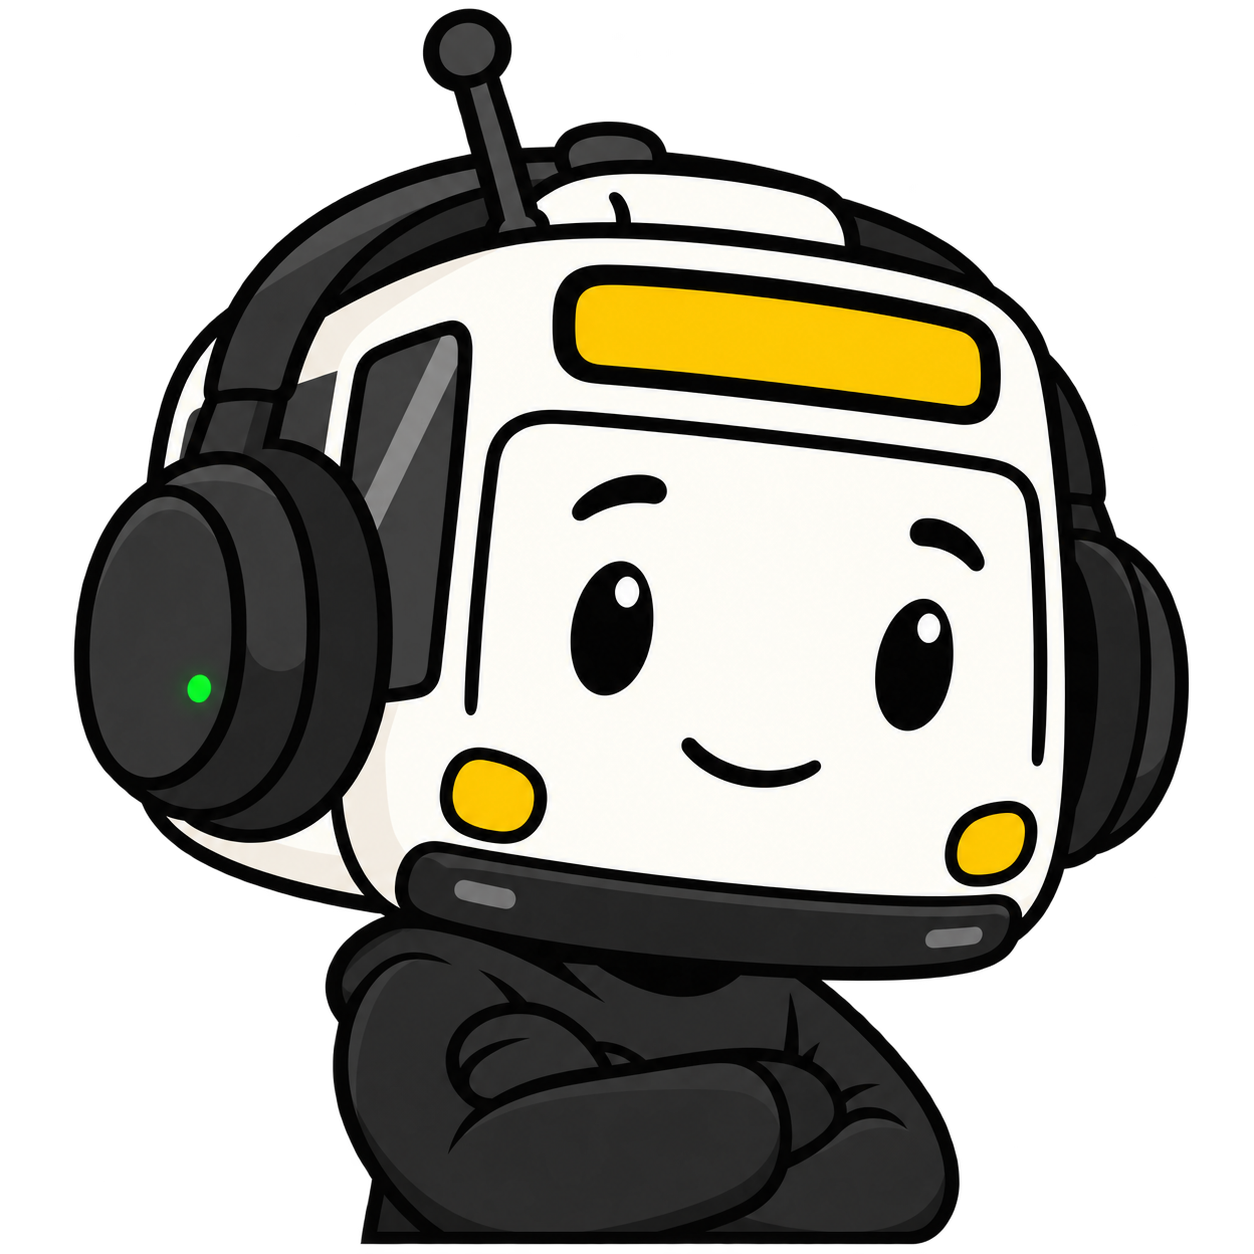
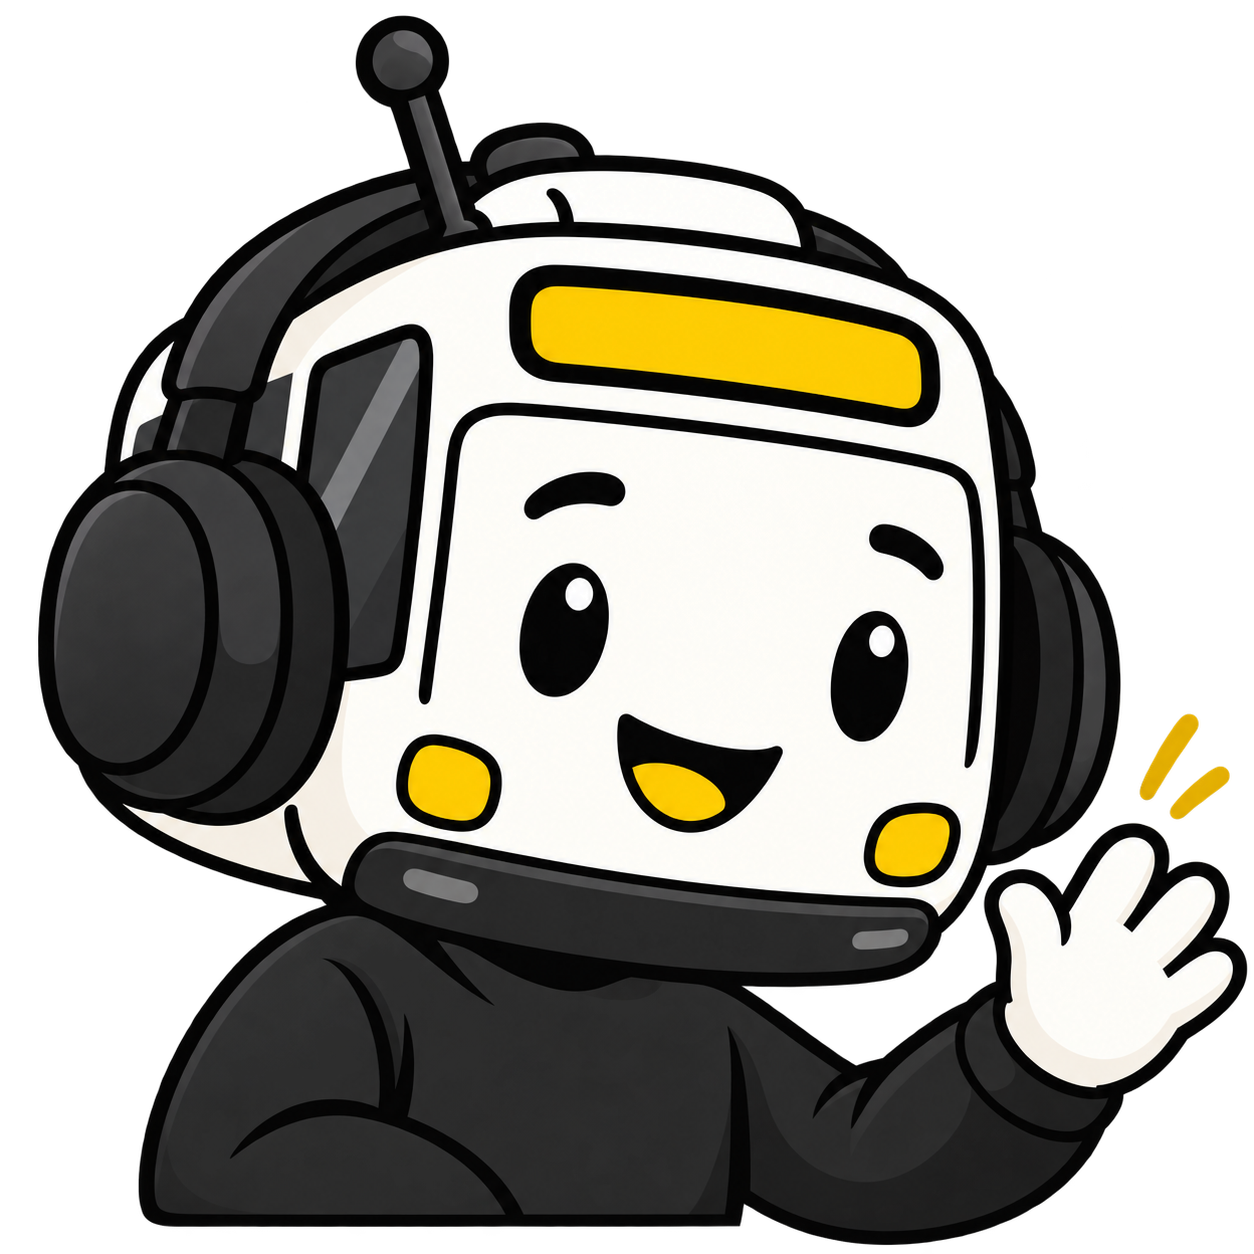
Add interactive cat wake animation

diff --git a/app/globals.css b/app/globals.css
@@ -1137,18 +1137,25 @@ footer { background: var(--ink); color: #cfcfcf; padding: clamp(56px, 8vh, 80px)
 footer { position: relative; }
 footer::before { content: ""; position: absolute; top: 0; left: 0; right: 0; height: 4px; background: var(--green); }
 .f-list a { transition: color .2s ease, border-color .2s ease; }
-.daba-cat-sprite { position: relative; display: block; width: 144px; height: 177px; overflow: hidden; flex: 0 0 auto; }
+.daba-cat-sprite { position: relative; display: block; width: 144px; height: 177px; overflow: hidden; flex: 0 0 auto; padding: 0; border: 0; background: transparent; cursor: pointer; }
 .daba-cat-sprite-sheet { position: absolute; top: 0; left: 0; display: block; width: 576px; max-width: none; height: 177px; object-fit: fill; }
-.daba-cat-sprite.is-animated .daba-cat-sprite-sheet { animation: daba-cat-frame 1.8s steps(1, end) infinite; }
+.daba-cat-sprite.is-animated .daba-cat-sprite-sheet { animation: daba-cat-frame 2.4s steps(1, end) infinite; }.daba-cat-sprite.is-jumping { animation: daba-cat-jump .7s cubic-bezier(.2,.8,.25,1) both; }
 .page-transition { animation: page-enter .48s cubic-bezier(.22,.75,.25,1) both; }
 .page-jump-layer { position: fixed; z-index: 260; inset: 0; overflow: hidden; pointer-events: none; opacity: 0; }
 .page-transition--jumping .page-jump-layer { opacity: 1; }
 .page-jump-sprite { position: absolute; left: -11rem; bottom: 8vh; transform: scale(.8); transform-origin: center bottom; filter: drop-shadow(0 12px 8px rgba(26,26,26,.2)); animation: page-jump-travel 1.05s cubic-bezier(.2,.8,.2,1) both; }
 @keyframes page-enter { from { opacity: .78; transform: translateY(10px); } to { opacity: 1; transform: translateY(0); } }
 @keyframes daba-cat-frame {
-  0%, 31% { transform: translateX(0); }
-  32%, 64% { transform: translateX(-144px); }
-  65%, 100% { transform: translateX(-288px); }
+  0%, 24% { transform: translateX(0); }
+  25%, 49% { transform: translateX(-144px); }
+  50%, 74% { transform: translateX(-288px); }
+  75%, 100% { transform: translateX(-432px); }
+}
+@keyframes daba-cat-jump {
+  0% { transform: translateY(0) rotate(0); }
+  35% { transform: translateY(-18px) rotate(-3deg); }
+  70% { transform: translateY(3px) rotate(2deg); }
+  100% { transform: translateY(0) rotate(0); }
 }
 @keyframes page-jump-travel {
   0% { left: -11rem; transform: translateY(0) rotate(-4deg) scale(.8); }
@@ -1162,6 +1169,7 @@ html { scroll-behavior: smooth; scroll-padding-top: 88px; }
   .page-transition { animation: none; }
   .page-jump-layer { display: none; }
   .daba-cat-sprite.is-animated .daba-cat-sprite-sheet { animation: none; }
+  .daba-cat-sprite.is-jumping { animation: none; }
   .nav, .nav-logo .dot, .nav-links a, .nav-links a::after, .ticket, .feature-article, .route-card { transition-duration: .01ms !important; }
 }
 @media (max-width: 960px) {
@@ -1269,3 +1277,5 @@ body:has(.editorial-home-one-page) { overflow: hidden; }
   .home-deck-route h2 { margin-top: .25rem; font-size: .73rem; }
   .home-deck-route p { display: none; }
 }
+
+

diff --git a/components/DabaCatSprite.tsx b/components/DabaCatSprite.tsx
@@ -1,23 +1,31 @@
+"use client";
+
+import { useState } from "react";
+
 type DabaCatSpriteProps = {
   animated?: boolean;
   className?: string;
   label?: string;
 };
 
-/**
- * 四格小巴素材的轻量逐帧角色：保留原图笔触，不引入视频或复杂运行时。
- * 只取前三格，避开原素材右下角的水印区域。
- */
+/** 四帧手绘素材：睡着 → 耳朵抖动 → 半醒 → 睁眼。点击角色会跳一下。 */
 export default function DabaCatSprite({
   animated = false,
   className = "",
   label = "头顶小猫的大巴形象",
 }: DabaCatSpriteProps) {
+  const [jumping, setJumping] = useState(false);
+
   return (
-    <span
-      className={`daba-cat-sprite${animated ? " is-animated" : ""}${className ? ` ${className}` : ""}`}
-      role="img"
-      aria-label={label}
+    <button
+      type="button"
+      className={`daba-cat-sprite${animated ? " is-animated" : ""}${jumping ? " is-jumping" : ""}${className ? ` ${className}` : ""}`}
+      aria-label={`${label}，点击让角色跳一下`}
+      onClick={() => {
+        setJumping(false);
+        requestAnimationFrame(() => setJumping(true));
+        window.setTimeout(() => setJumping(false), 700);
+      }}
     >
       <img
         className="daba-cat-sprite-sheet"
@@ -26,6 +34,6 @@ export default function DabaCatSprite({
         aria-hidden="true"
         draggable="false"
       />
-    </span>
+    </button>
   );
 }
